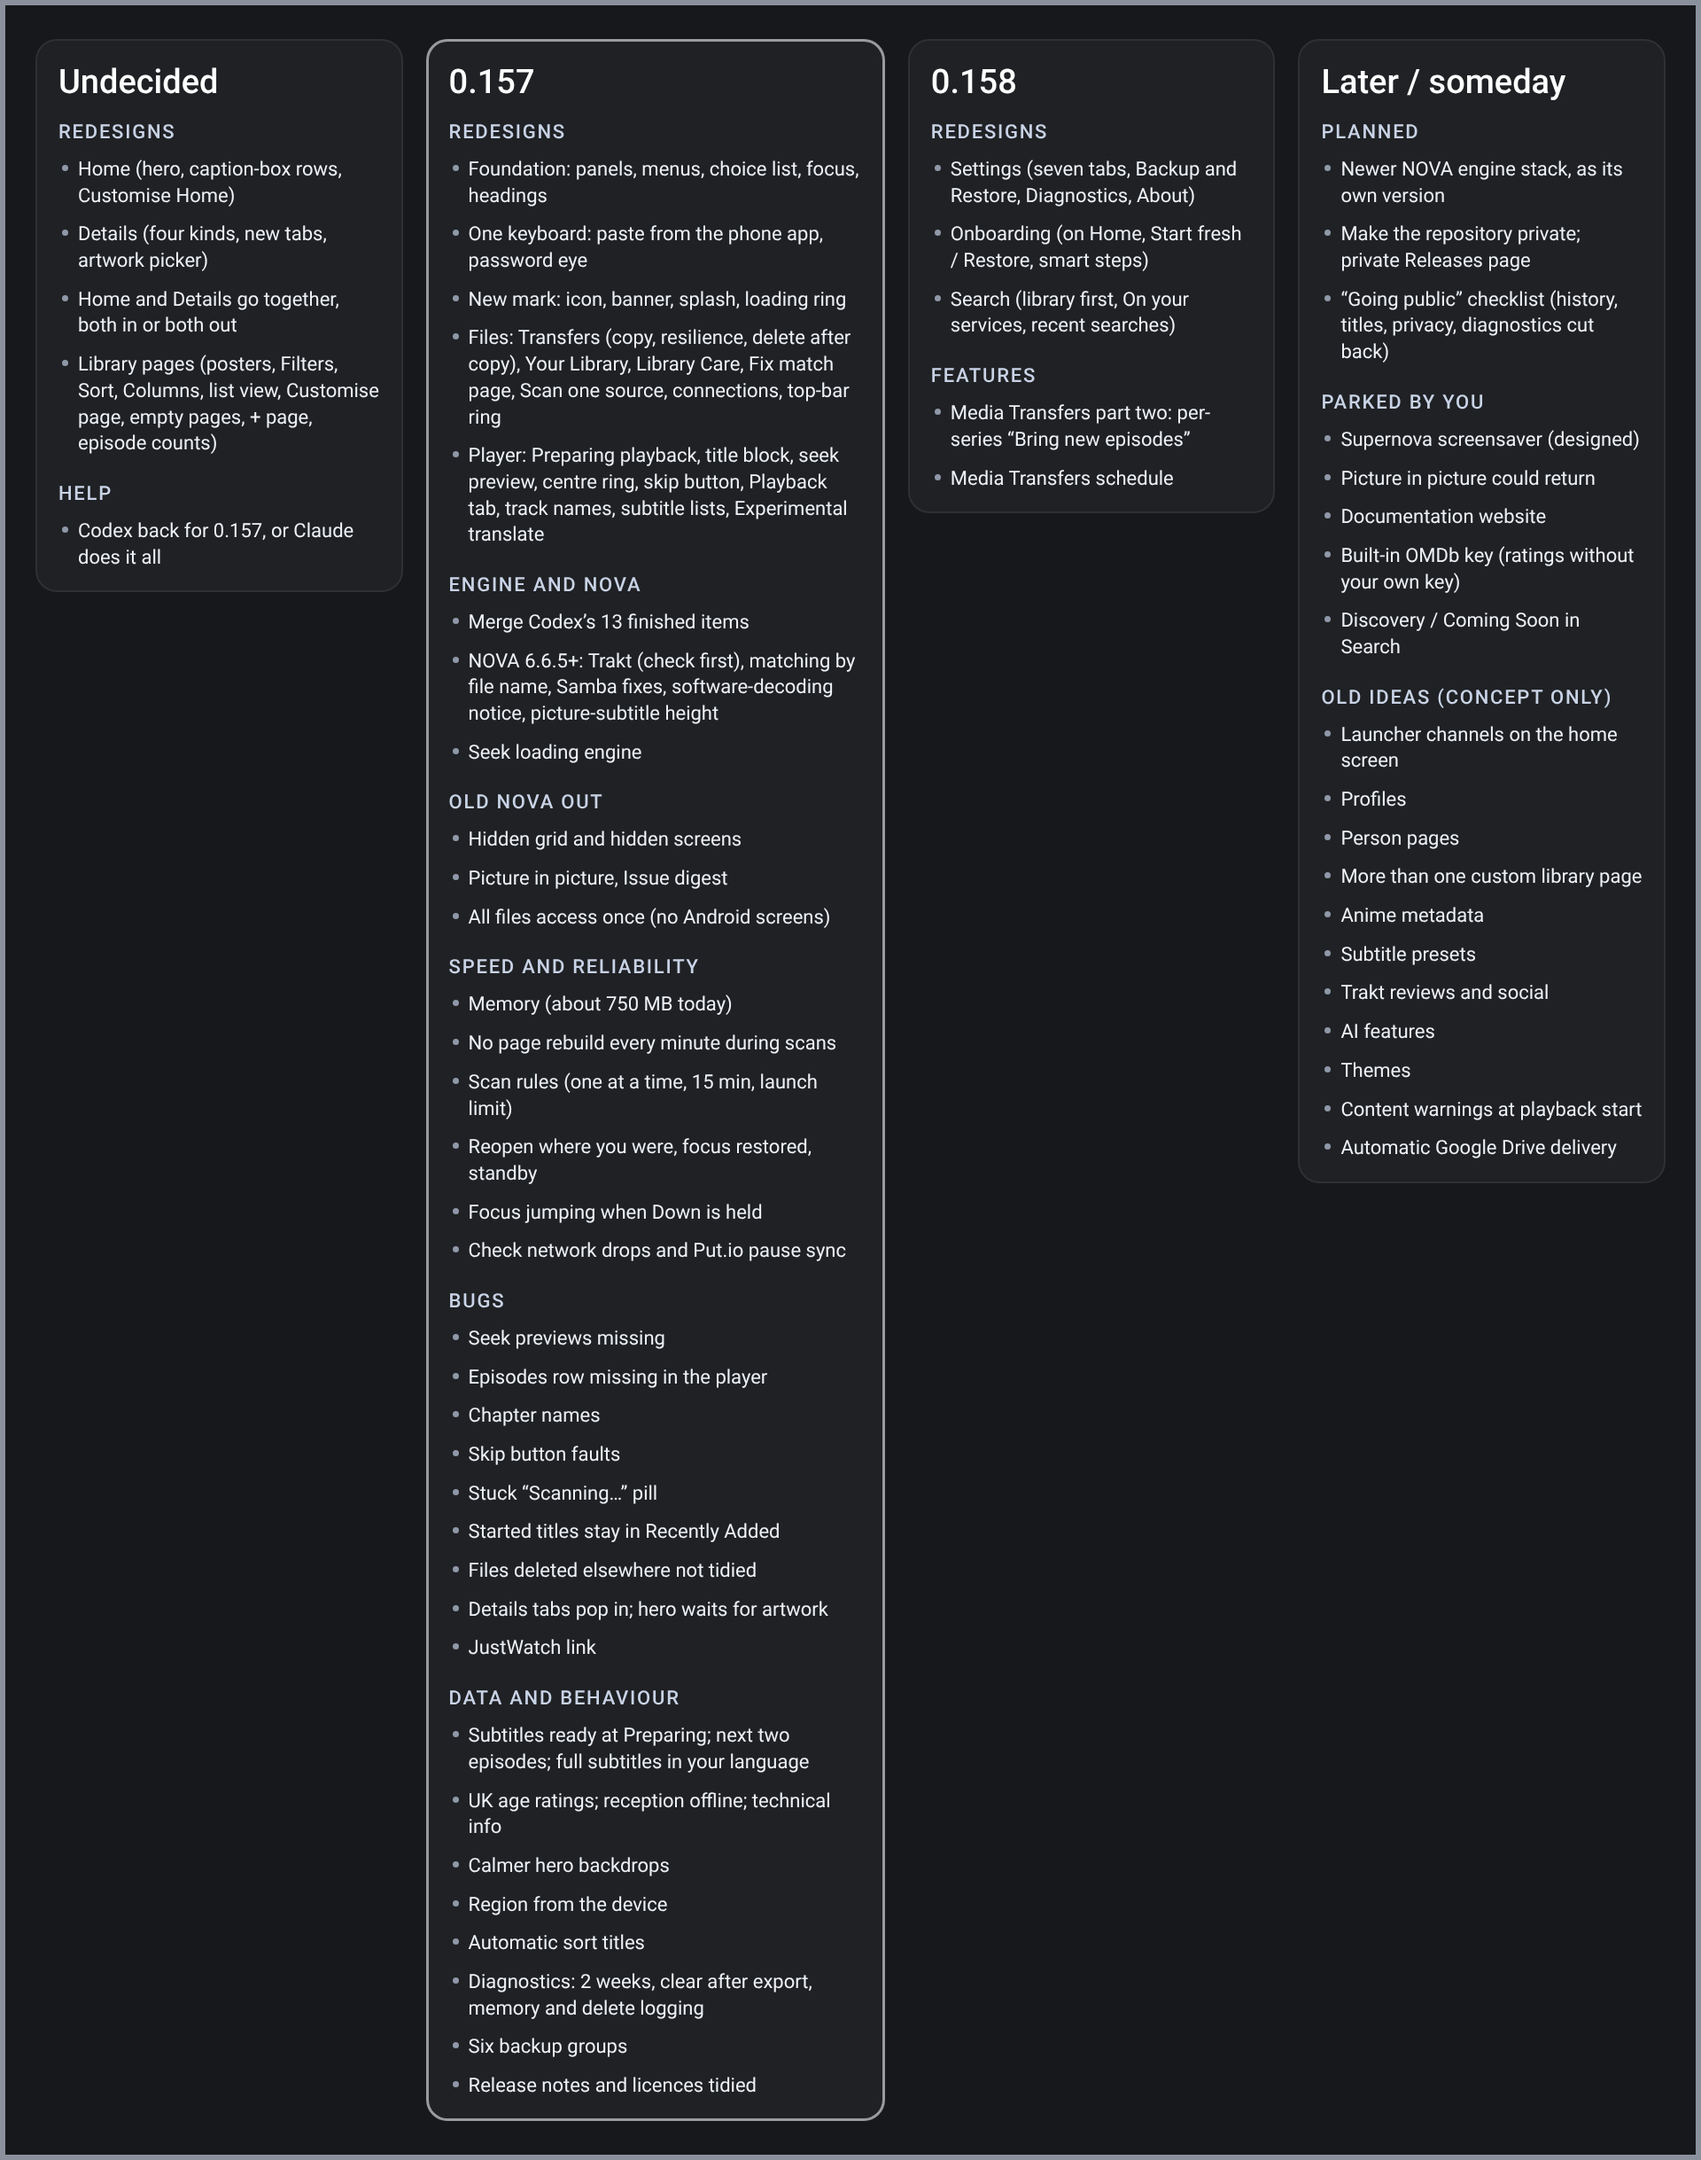
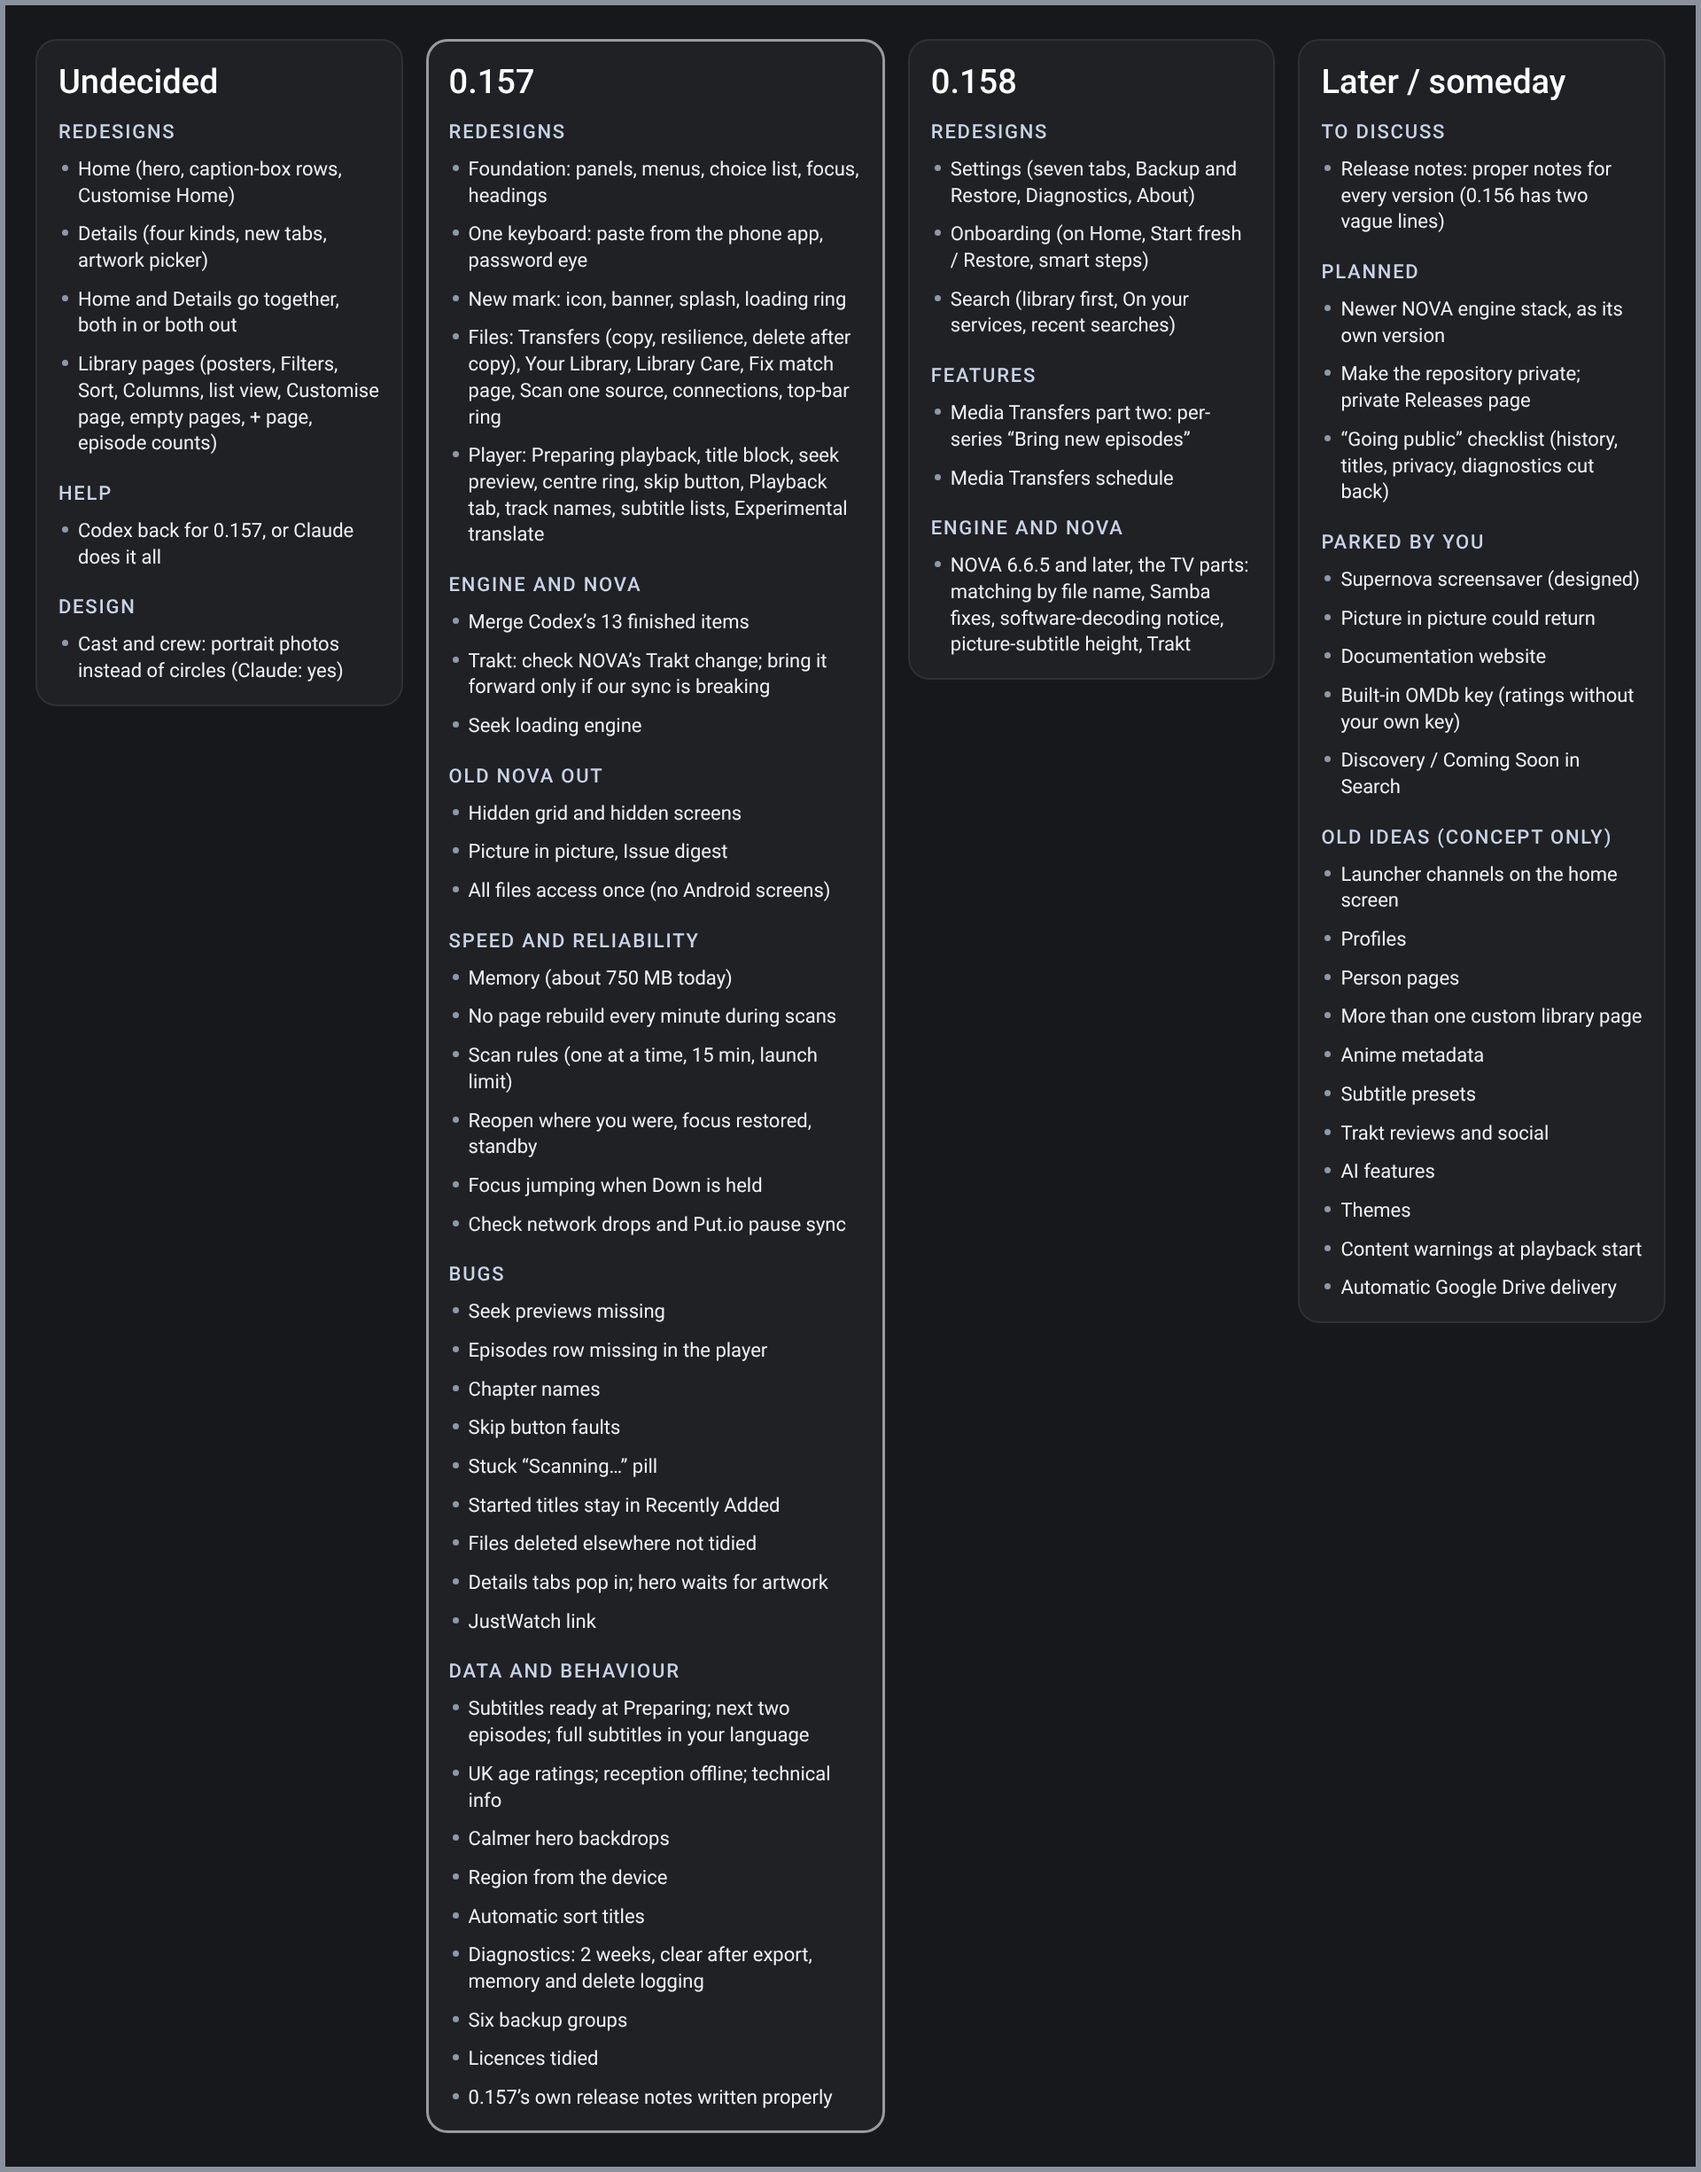
Board: NOVA update to 0.158, Trakt check stays; release notes to discuss; cast photo question
Claude-Session: https://claude.ai/code/session_01FtDZqamY6pdaUKwc7fqgiA

diff --git a/docs/0.157/board/render.js b/docs/0.157/board/render.js
@@ -13,6 +13,7 @@ const cols = [
       'Home and Details go together, both in or both out', 'Library pages (posters, Filters, Sort, Columns, list '
       + 'view, Customise page, empty pages, + page, episode counts)']],
     ['Help', ['Codex back for 0.157, or Claude does it all']],
+    ['Design', ['Cast and crew: portrait photos instead of circles (Claude: yes)']],
   ]],
   ['0.157', [
     ['Redesigns', ['Foundation: panels, menus, choice list, focus, headings', 'One keyboard: paste from the phone '
@@ -20,8 +21,8 @@ const cols = [
       + 'delete after copy), Your Library, Library Care, Fix match page, Scan one source, connections, top-bar ring',
       'Player: Preparing playback, title block, seek preview, centre ring, skip button, Playback tab, track names, '
       + 'subtitle lists, Experimental translate']],
-    ['Engine and NOVA', ['Merge Codex’s 13 finished items', 'NOVA 6.6.5+: Trakt (check first), matching by file '
-      + 'name, Samba fixes, software-decoding notice, picture-subtitle height', 'Seek loading engine']],
+    ['Engine and NOVA', ['Merge Codex’s 13 finished items', 'Trakt: check NOVA’s Trakt change; bring it forward only '
+      + 'if our sync is breaking', 'Seek loading engine']],
     ['Old NOVA out', ['Hidden grid and hidden screens', 'Picture in picture, Issue digest', 'All files access once '
       + '(no Android screens)']],
     ['Speed and reliability', ['Memory (about 750 MB today)', 'No page rebuild every minute during scans',
@@ -33,14 +34,17 @@ const cols = [
     ['Data and behaviour', ['Subtitles ready at Preparing; next two episodes; full subtitles in your language',
       'UK age ratings; reception offline; technical info', 'Calmer hero backdrops', 'Region from the device',
       'Automatic sort titles', 'Diagnostics: 2 weeks, clear after export, memory and delete logging',
-      'Six backup groups', 'Release notes and licences tidied']],
+      'Six backup groups', 'Licences tidied', '0.157’s own release notes written properly']],
   ]],
   ['0.158', [
     ['Redesigns', ['Settings (seven tabs, Backup and Restore, Diagnostics, About)', 'Onboarding (on Home, Start fresh '
       + '/ Restore, smart steps)', 'Search (library first, On your services, recent searches)']],
     ['Features', ['Media Transfers part two: per-series “Bring new episodes”', 'Media Transfers schedule']],
+    ['Engine and NOVA', ['NOVA 6.6.5 and later, the TV parts: matching by file name, Samba fixes, software-decoding '
+      + 'notice, picture-subtitle height, Trakt']],
   ]],
   ['Later / someday', [
+    ['To discuss', ['Release notes: proper notes for every version (0.156 has two vague lines)']],
     ['Planned', ['Newer NOVA engine stack, as its own version', 'Make the repository private; private Releases page',
       '“Going public” checklist (history, titles, privacy, diagnostics cut back)']],
     ['Parked by you', ['Supernova screensaver (designed)', 'Picture in picture could return', 'Documentation website',

diff --git a/docs/0.157/OWNER_NOTES.md b/docs/0.157/OWNER_NOTES.md
@@ -1247,3 +1247,14 @@ a TV (our fork is heavily changed, so each is carried across by hand, not merged
   same gap ("2021 · 6 episodes" turns into "S1 E2 · 31 min left"). Claude proposes line two always keeps the size:
   not started "3 seasons · 30 episodes"; started "S2 E3 · 18 of 30 left" (the bar already shows how far into the
   episode). **Approved (owner, 14 Nov);** RULES §14.
+
+## 41. Owner's comments on the version board (14 Nov 2026; `docs/0.157/board/`)
+- **NOVA 6.6.5+ moves to 0.158** (owner). Claude: one exception, in 0.157 check whether NOVA's Trakt change means
+  Trakt is retiring the call our sync uses; bring just that part forward only if our sync is breaking.
+- **Release notes need a rethink (later, to discuss):** 0.156's notes are two vague lines ("Library scanning, backup
+  reliability and diagnostic improvements" / "Player, metadata, network files and settings improvements. See the
+  release list for device checks"). Claude: 0.157's own notes will be written properly, one change per line in plain
+  words, as part of signing; how to redo older versions' notes is the later discussion.
+- **Cast and crew photos:** TMDB supplies portrait (2:3) photos; the round crop cuts off heads (seen on a 2026 film).
+  Claude agrees: switch to portrait cards with rounded corners like posters, with the artwork edge and focus ring,
+  name and role underneath; initials when there is no photo. Part of the Details redesign. Awaiting the owner.

diff --git a/docs/REVISIT_LATER.md b/docs/REVISIT_LATER.md
@@ -5,6 +5,10 @@ Gathered 4 Nov 2026 from this session and the older registers (`docs/Future Deve
 `docs/archive/early-planning/project-decisions/POST_0139_NON_MAINTENANCE_FEATURE_BACKLOG.md`, `docs/design/CODEX_WORK_QUEUE_2026-10-27.md`).
 Items already built or scheduled are left out (see the bottom of this file).
 
+## Release notes, properly (owner, 14 Nov 2026) — to discuss
+- 0.156's notes are two vague lines. Rethink how notes are written and shown, and whether to rewrite older
+  versions' notes from their records. 0.157's own notes will already be written properly.
+
 ## Ratings without a personal OMDb key — added 4 Nov 2026
 - **Decision (owner):** do not build an OMDb key into the app for now. Reception's IMDb, Rotten Tomatoes and
   Metacritic scores keep using the key typed into Settings (`omdb_api_key`, `metadata/OmdbSupplement.java`,

diff --git a/docs/0.157/VERSION_PLAN.md b/docs/0.157/VERSION_PLAN.md
@@ -141,6 +141,7 @@ library statistics) arrives with that page; Files is in 0.157, so most do too.
   built on solid ground. A focus bug on a page being redesigned in the same version is fixed in the new page, not
   twice; a page that waits keeps its fix in today's code.
 
+- **NOVA 6.6.5+ moved to 0.158 (owner, 14 Nov);** 0.157 only checks Trakt and fixes it if our sync is breaking.
 - **Redesigns decided (owner, 14 Nov):** 0.157 also gets **R5 Player** (with Preparing playback). **0.158:** R7 Settings
   (its eight tiles were partly redesigned already and work well, unlike Network & Files), R9 onboarding, R4 Search.
   Open: R1 Home, R2 library pages, R3 Details.
